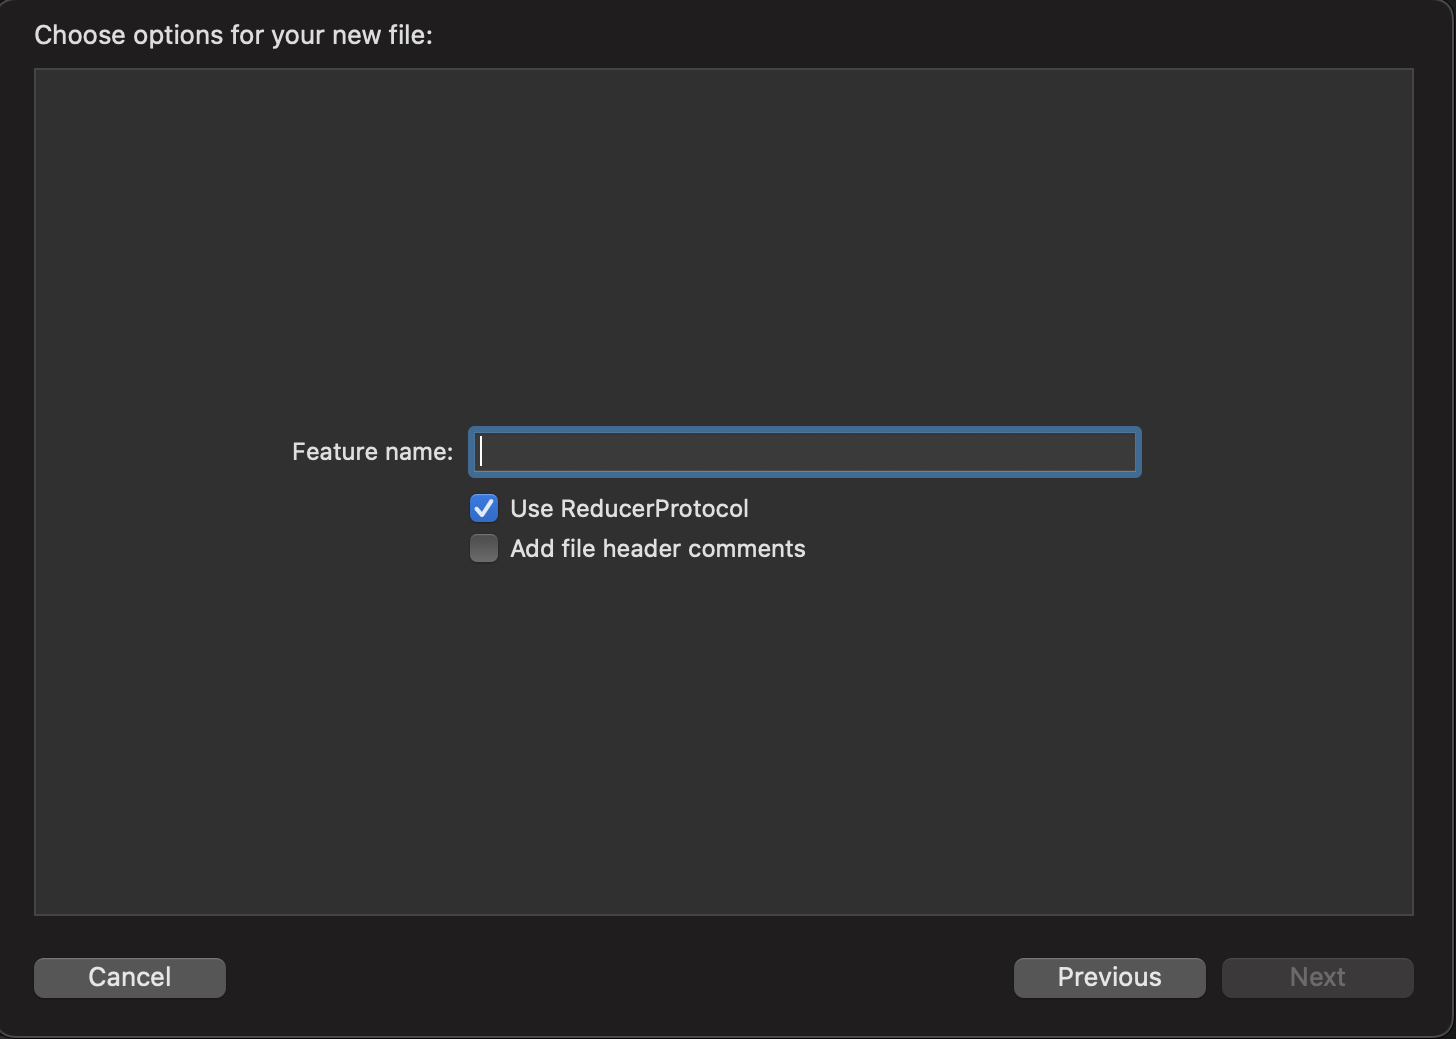
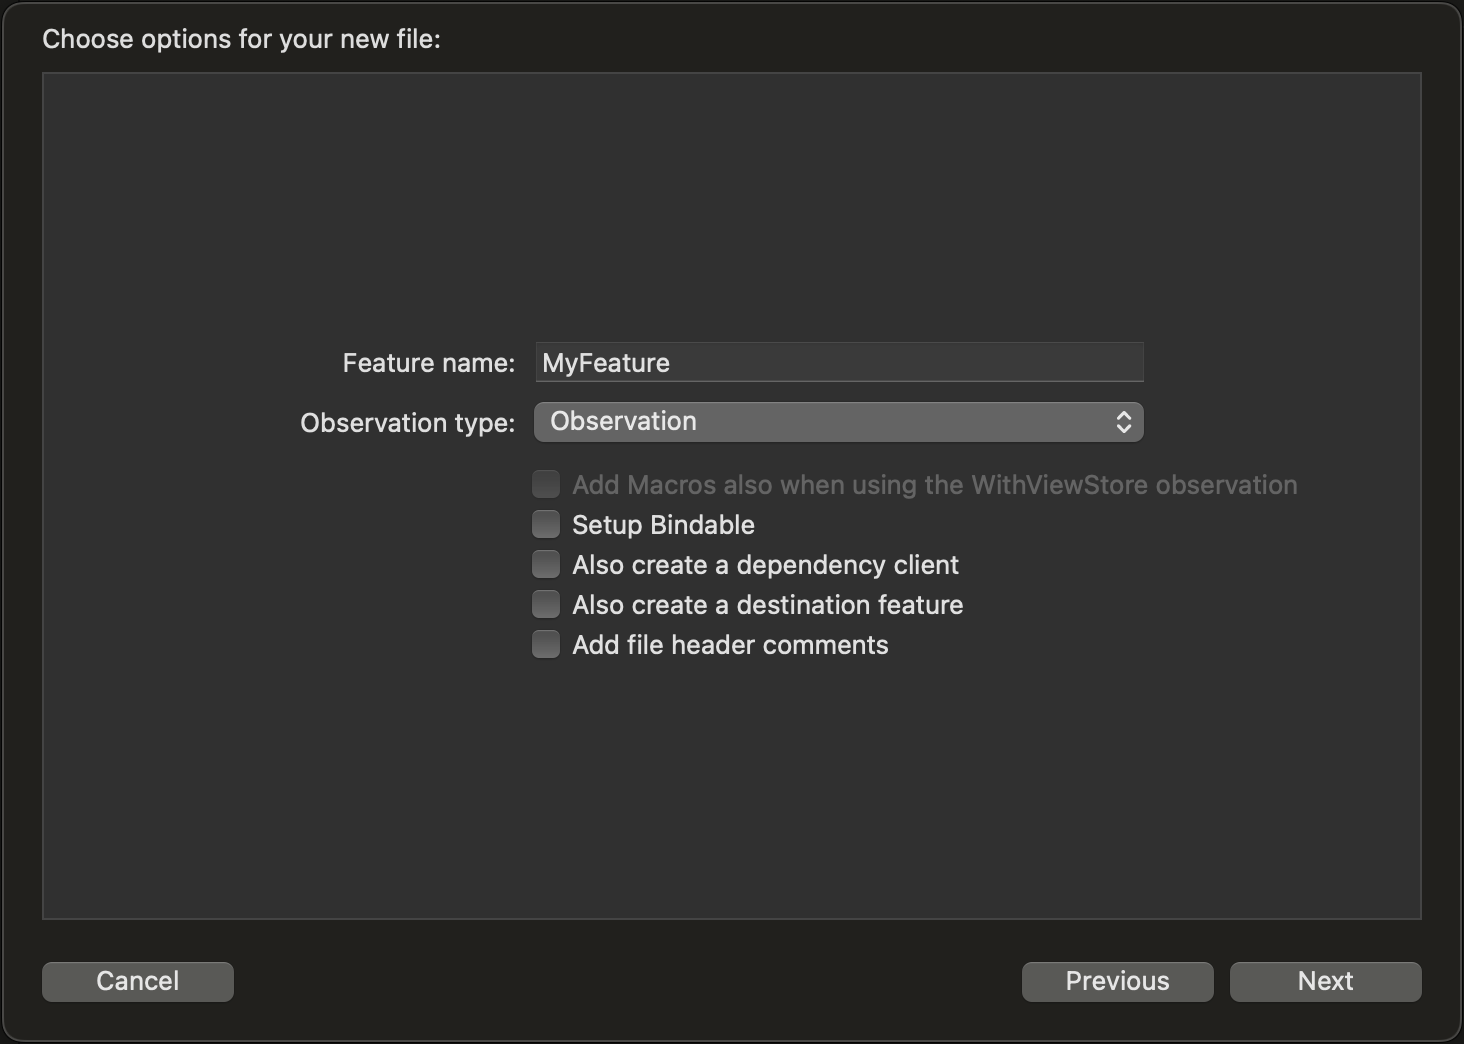
docs(): updated xcode-dialog, small readme improvement

diff --git a/README.md b/README.md
@@ -8,7 +8,7 @@ This repository contains a SwiftUI Xcode template for [The Composable Architectu
 
 Quickly create all components of a TCA stack using the template in Xcode and focus on implementing your feature 🚀
 
-![Xcode dialog](https://github.com/crelies/TheComposableArchitecture-Xcode-Template/blob/main/xcode-dialog.png)
+![Xcode dialog](https://github.com/crelies/TheComposableArchitecture-Xcode-Template/blob/feature/1.7.x/xcode-dialog.png)
 
 ## Features
 
@@ -17,7 +17,7 @@ Quickly create all components of a TCA stack using the template in Xcode and foc
 | Observation type: WithViewStore | Default view store observation | 5.7.0 | 1.0.0 |
 | WithViewStore observation with Macros  | Indicates if macros, like @Reducer, should be used | 5.9.0 | 1.4.0 |
 | Observation type: Perception | Backport for older OS versions | 5.9.0 | 1.7.0 |
-| Observation type: Observation | New Observation framework | 5.9.0 | 1.7.0 |
+| Observation type: Observation | Apple's new Observation framework | 5.9.0 | 1.7.0 |
 | Setup Bindable | Bindable setup added to the feature (BindableAction) | 5.7.0 | 1.0.0 |
 | Create DependencyClient | Client definition generated for the feature | 5.7.0 | 1.0.0 |
 | Create DestinationFeature | Destination feature added as child reducer | 5.7.0 | 1.0.0 |
